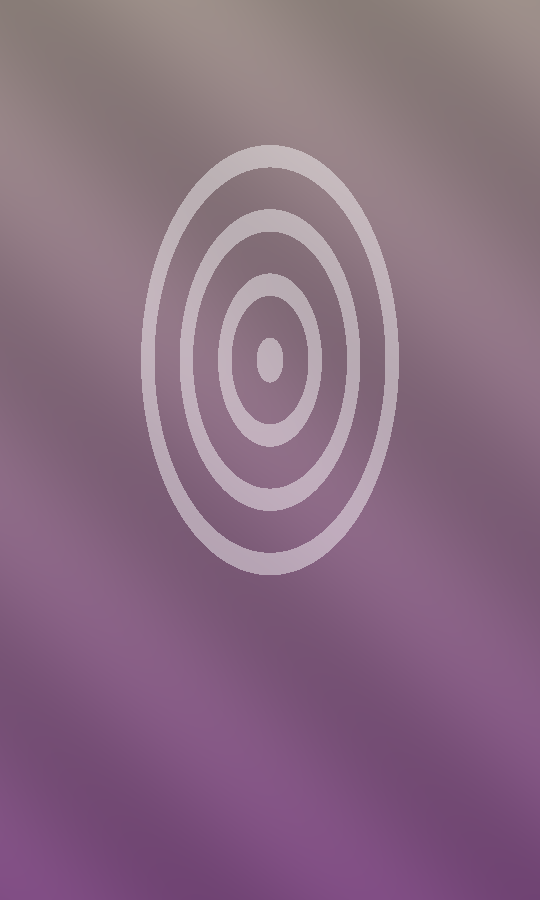
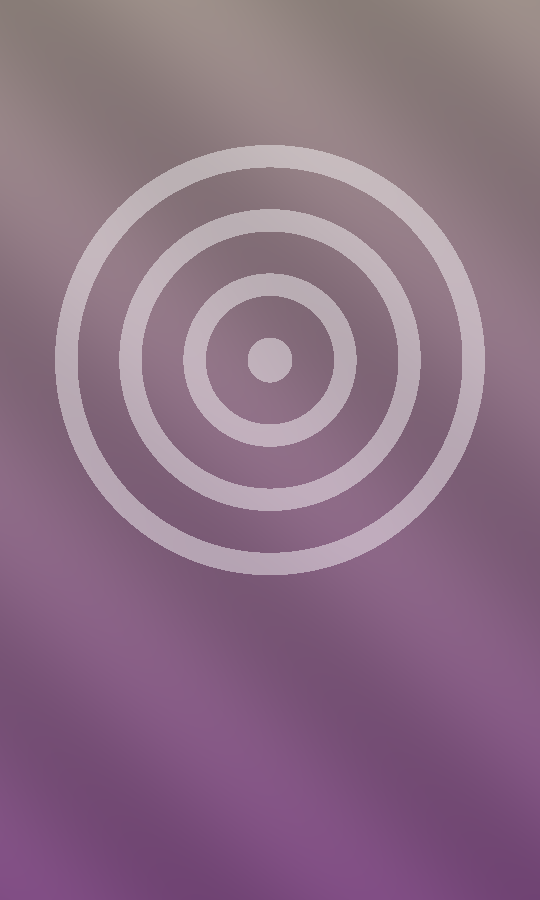
260912_두 장이 같은 크기인지 숫자로 고정 + 배치 이미지 동심원을 정원으로
스크린샷으로는 판단할 수 없었다. 보상 이미지는 테두리 한 줄만 드러나 있어
맞춰 볼 특징이 없다. 그래서 두 가지를 넣었다.

1. 월드 경계를 비교하는 테스트

원본 크기가 서로 다른 두 장(540x900 / 1080x1800)을 넣고도
가림막과 보상의 월드 경계와 중심이 정확히 같은지 본다.
결과는 둘 다 7.200 x 12.000, 중심 0 — 그리드 크기와 일치한다.

2. 배치 이미지의 동심원을 정원으로

정규화 좌표에서 거리를 재고 있어 세로로 긴 타원으로 그려지고 있었다.
그림이 눌린 것인지 원래 그렇게 그린 것인지 구분할 수 없는 상태라,
가로를 비율만큼 늘려서 재도록 고쳤다. 이제 원본에서 466x466으로 정확히 둥글다.

그리드 비율과 이미지 비율이 같으므로 화면에서도 정원으로 보인다.
타원으로 보이면 어딘가에서 늘어난 것이다 — 눈으로 쓸 수 있는 기준이 생겼다.

검증 : PASS 290 FAIL 0

Changed region(s): [[0.0889, 0.1556, 0.9185, 0.6533]]

diff --git a/Assets/Editor/CProtoTest.cs b/Assets/Editor/CProtoTest.cs
@@ -53,6 +53,7 @@ namespace Client
             Test_SkillTable();
             Test_BattleConsumable();
             Test_CoverResolution();
+            Test_LayerBounds();
             Test_Joystick();
 
             s_sbLog.AppendLine($"\n===== RESULT : PASS {s_iPass} / FAIL {s_iFail} =====");
@@ -666,6 +667,51 @@ namespace Client
             Check("비율 0도 견딘다", CCameraFitter.Calc_Size(vMap1, 0f, 0f, 0f) > 0f);
         }
 
+
+        // 260912_가림막과 보상이 화면에서 정확히 같은 자리·같은 크기인지.
+        // 눈으로는 테두리 한 줄만 보여 맞춰 볼 특징이 없다. 월드 경계를 숫자로 본다.
+        private static void Test_LayerBounds()
+        {
+            CTerritoryGrid cGrid = new CTerritoryGrid();
+            cGrid.Initialize(60, 100, 0.12f, new Vector2(-3.6f, -6f), 2, null);
+
+            GameObject goCover  = new GameObject("Cover_Bounds");
+            GameObject goReveal = new GameObject("Reveal_Bounds");
+            SpriteRenderer srCover  = goCover.AddComponent<SpriteRenderer>();
+            SpriteRenderer srReveal = goReveal.AddComponent<SpriteRenderer>();
+
+            CGridRenderer cRenderer = new CGridRenderer();
+            cRenderer.Initialize(cGrid, srCover, srReveal);
+
+            // 일부러 크기가 다른 두 장을 넣는다.
+            // 원본 크기가 어떻든 화면에서는 같아야 한다는 것이 이 검사의 요점이다.
+            cRenderer.Set_WaveTexture(Make_TestTexture(540, 900), Make_TestTexture(1080, 1800));
+
+            Bounds bCover  = srCover.bounds;
+            Bounds bReveal = srReveal.bounds;
+
+            Check("가로가 같다", Mathf.RoundToInt(bCover.size.x * 1000f),
+                                 Mathf.RoundToInt(bReveal.size.x * 1000f));
+            Check("세로가 같다", Mathf.RoundToInt(bCover.size.y * 1000f),
+                                 Mathf.RoundToInt(bReveal.size.y * 1000f));
+            Check("중심이 같다",  Mathf.RoundToInt(bCover.center.x * 1000f),
+                                 Mathf.RoundToInt(bReveal.center.x * 1000f));
+            Check("중심 높이가 같다", Mathf.RoundToInt(bCover.center.y * 1000f),
+                                      Mathf.RoundToInt(bReveal.center.y * 1000f));
+
+            // 그리고 그 크기가 곧 그리드 크기여야 한다 (7.2 x 12.0)
+            Vector2 vWorld = cGrid.WORLD_SIZE;
+            Check("그리드 가로와 같다", Mathf.RoundToInt(bCover.size.x * 1000f),
+                                        Mathf.RoundToInt(vWorld.x * 1000f));
+            Check("그리드 세로와 같다", Mathf.RoundToInt(bCover.size.y * 1000f),
+                                        Mathf.RoundToInt(vWorld.y * 1000f));
+            Check("그리드 중심과 같다", Mathf.RoundToInt(bCover.center.x * 1000f),
+                                        Mathf.RoundToInt(cGrid.WORLD_CENTER.x * 1000f));
+
+            cRenderer.Release();
+            Object.DestroyImmediate(goCover);
+            Object.DestroyImmediate(goReveal);
+        }
 
         // 260912_가림막 사본은 원본과 같은 해상도여야 한다.
         // 한 장이 보상이었다가 다음 웨이브에 가림막이 되므로, 줄여 찍으면 같은 그림이

diff --git a/Assets/Editor/CProtoSetup.cs b/Assets/Editor/CProtoSetup.cs
@@ -614,7 +614,12 @@ namespace Client
                     Color cColor = Color.Lerp(cBase, cBase * 1.4f, fStripe * 0.4f);
 
                     // 몇 번째 장인지 한눈에 보이도록 큰 숫자 대신 동심원 개수로 표시한다.
-                    float fDist = Vector2.Distance(new Vector2(fU, fT), new Vector2(0.5f, 0.6f));
+                    // 260912_가로를 비율만큼 늘려서 재야 화면에서 '진짜 원'으로 보인다.
+                    // 정규화 좌표에서 그냥 재면 세로로 긴 타원이 되어, 그림이 눌린 것인지
+                    // 원래 그렇게 그린 것인지 구분할 수 없다 — 눈으로 확인할 수 있는 기준을 남긴다.
+                    float fAspect = (float)iWidth / iHeight;
+                    float fDist = Vector2.Distance(new Vector2(fU * fAspect, fT),
+                                                   new Vector2(0.5f * fAspect, 0.6f));
                     float fRing = Mathf.Repeat(fDist * iStep * 14f, 1f);
                     if (fDist < 0.26f && fRing < 0.35f)
                         cColor = Color.Lerp(cColor, Color.white, 0.45f);

diff --git a/CLAUDE.md b/CLAUDE.md
@@ -186,6 +186,9 @@ CAddressableLabel   PREFAB="Prefabs", TEXTURE="Images", CSV="CSV"
 비율이 다르면 그림이 눌린다. 둘이 똑같이 눌리기 때문에 '한쪽만 이상하다'로는 안 보이고
 그냥 어색해질 뿐이라 눈으로 찾기 어렵다 — `Validate Assets`의 `Validate_LayerAspect`가 숫자로 잡는다.
 
+**배치 이미지의 동심원은 눈으로 쓰는 검사 도구다**(260912). 화면에서 정원으로 보이도록
+가로를 비율만큼 늘려 그려 둔다 — **타원으로 보이면 어딘가에서 늘어난 것**이다.
+
 배치 이미지는 `CProtoSetup.TEX_PIXEL_PER_CELL`(현재 9)로 그리드에서 만들어 낸다.
 맵 1이면 60x100칸 → **540x900**이고, 칸 하나가 정확히 9x9 픽셀이다.
 실제 아트를 발주할 때도 **이 비율(가로:세로 = 칸 수 비율)만 지키면 된다.**
